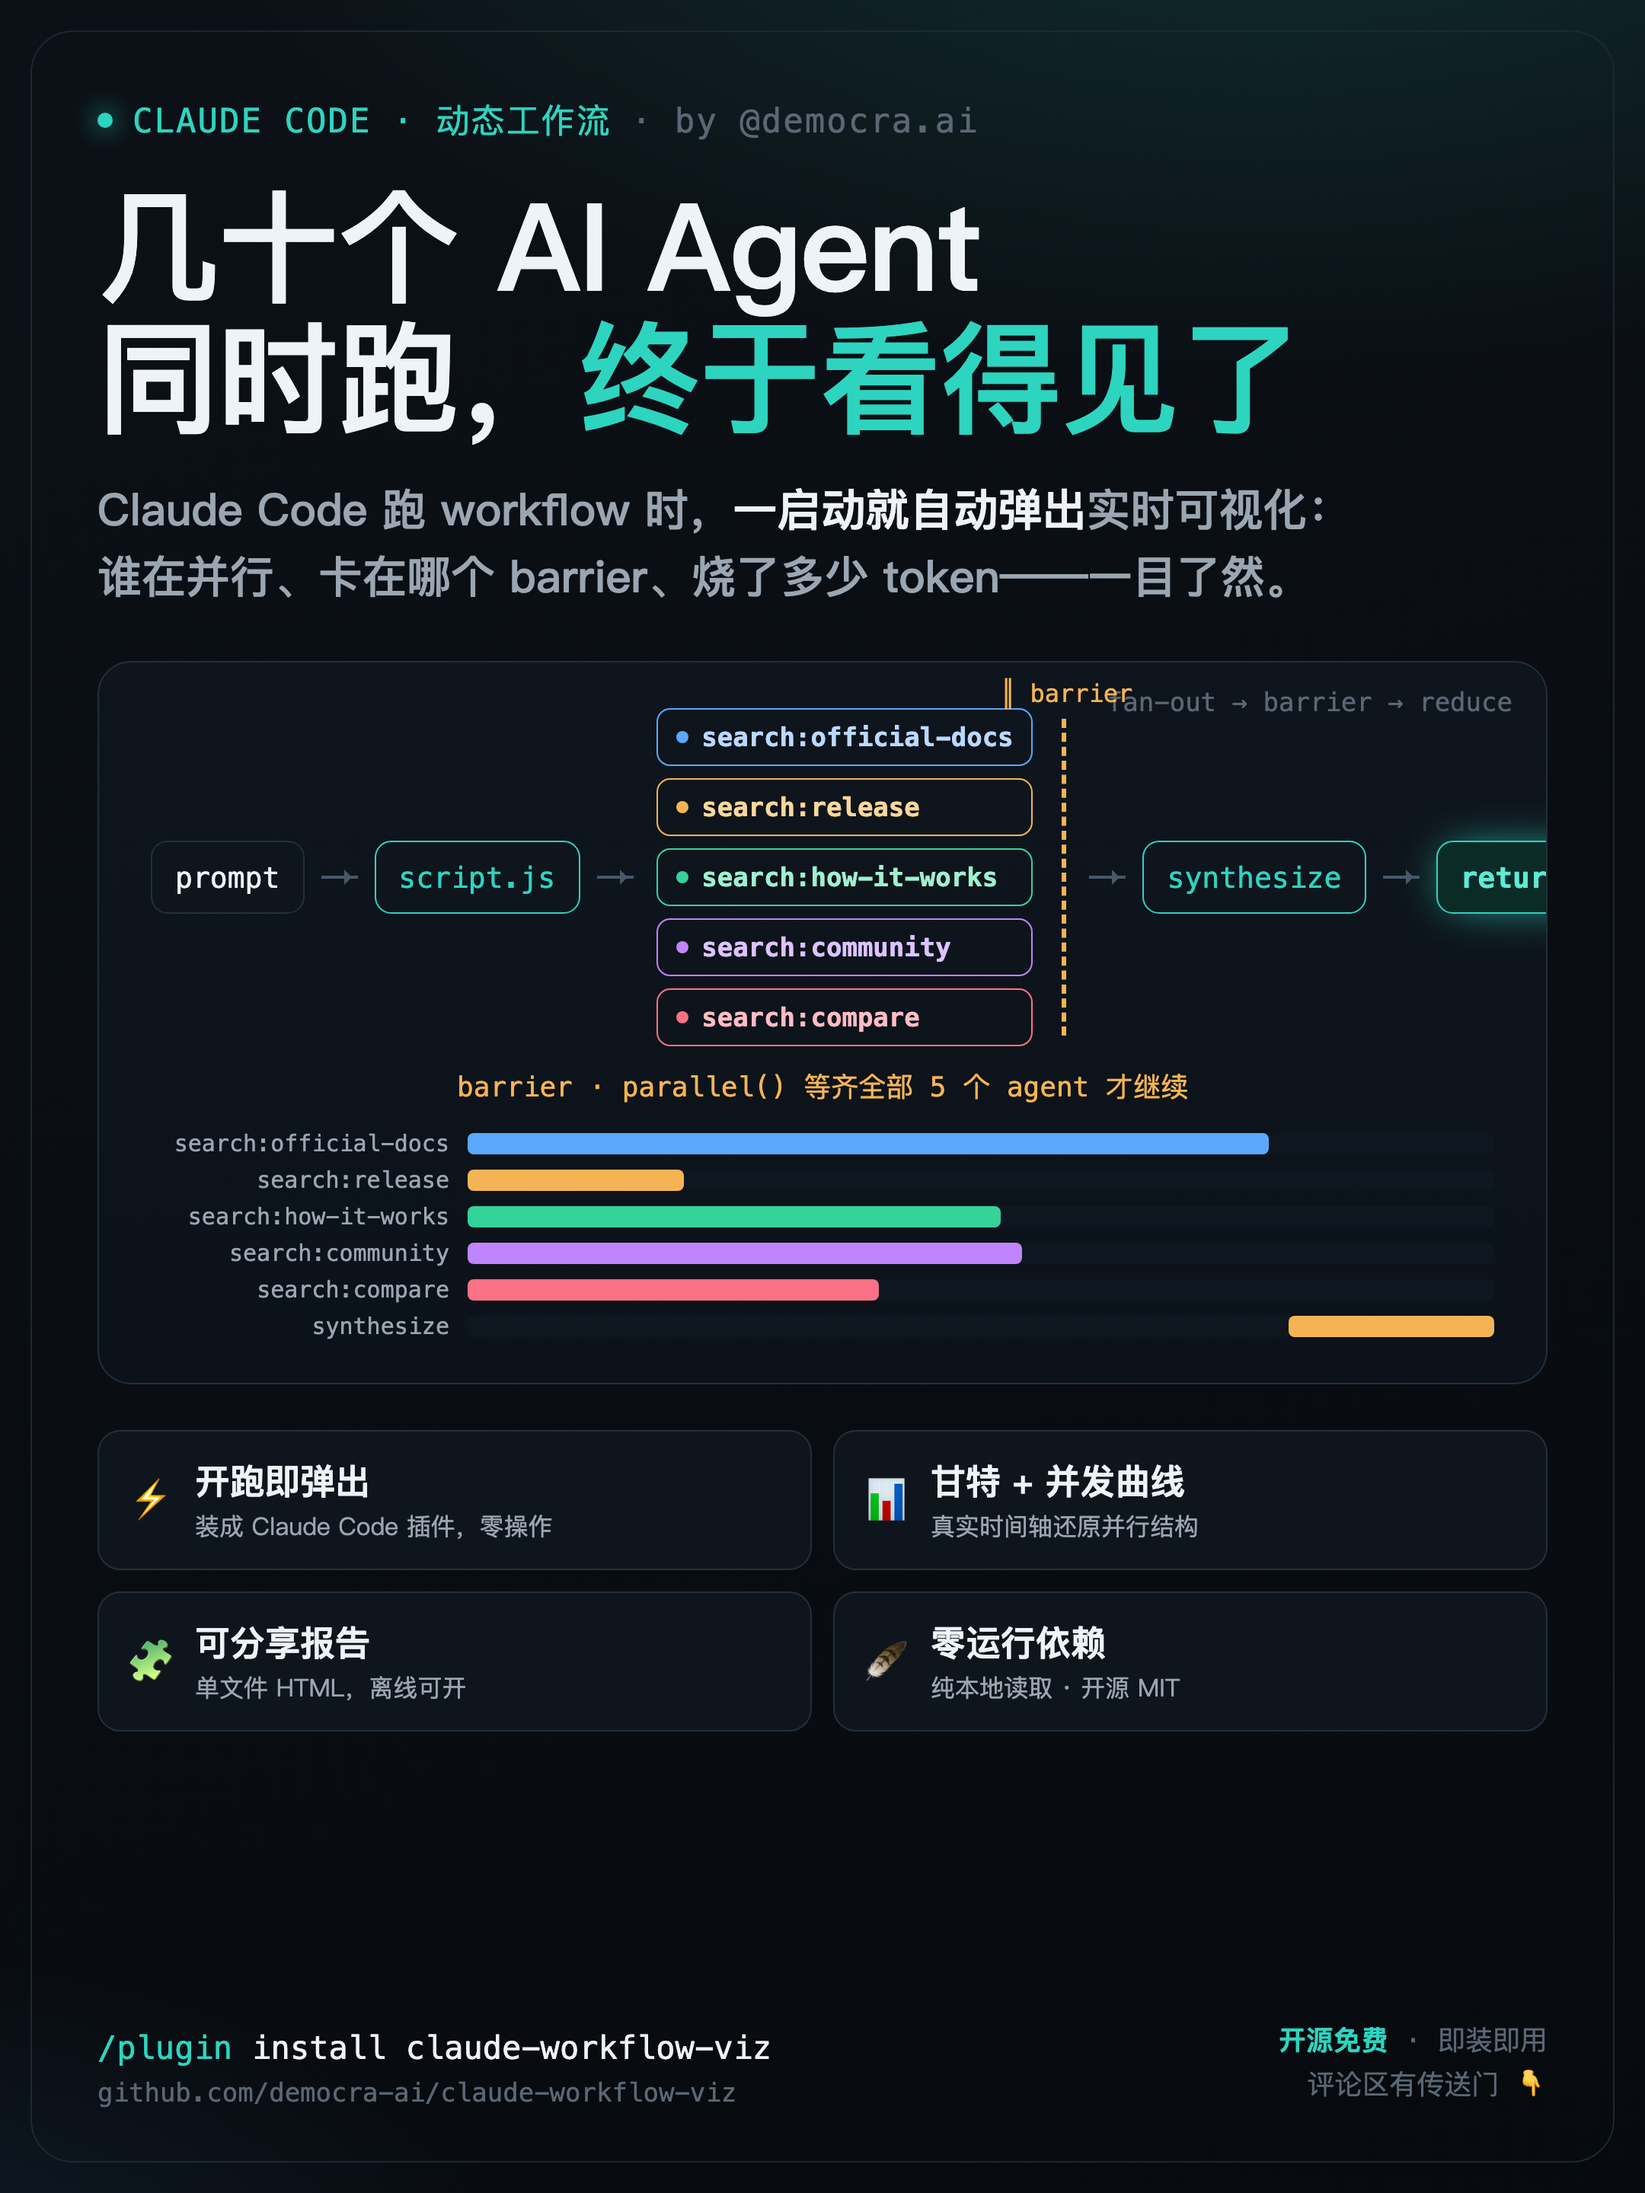
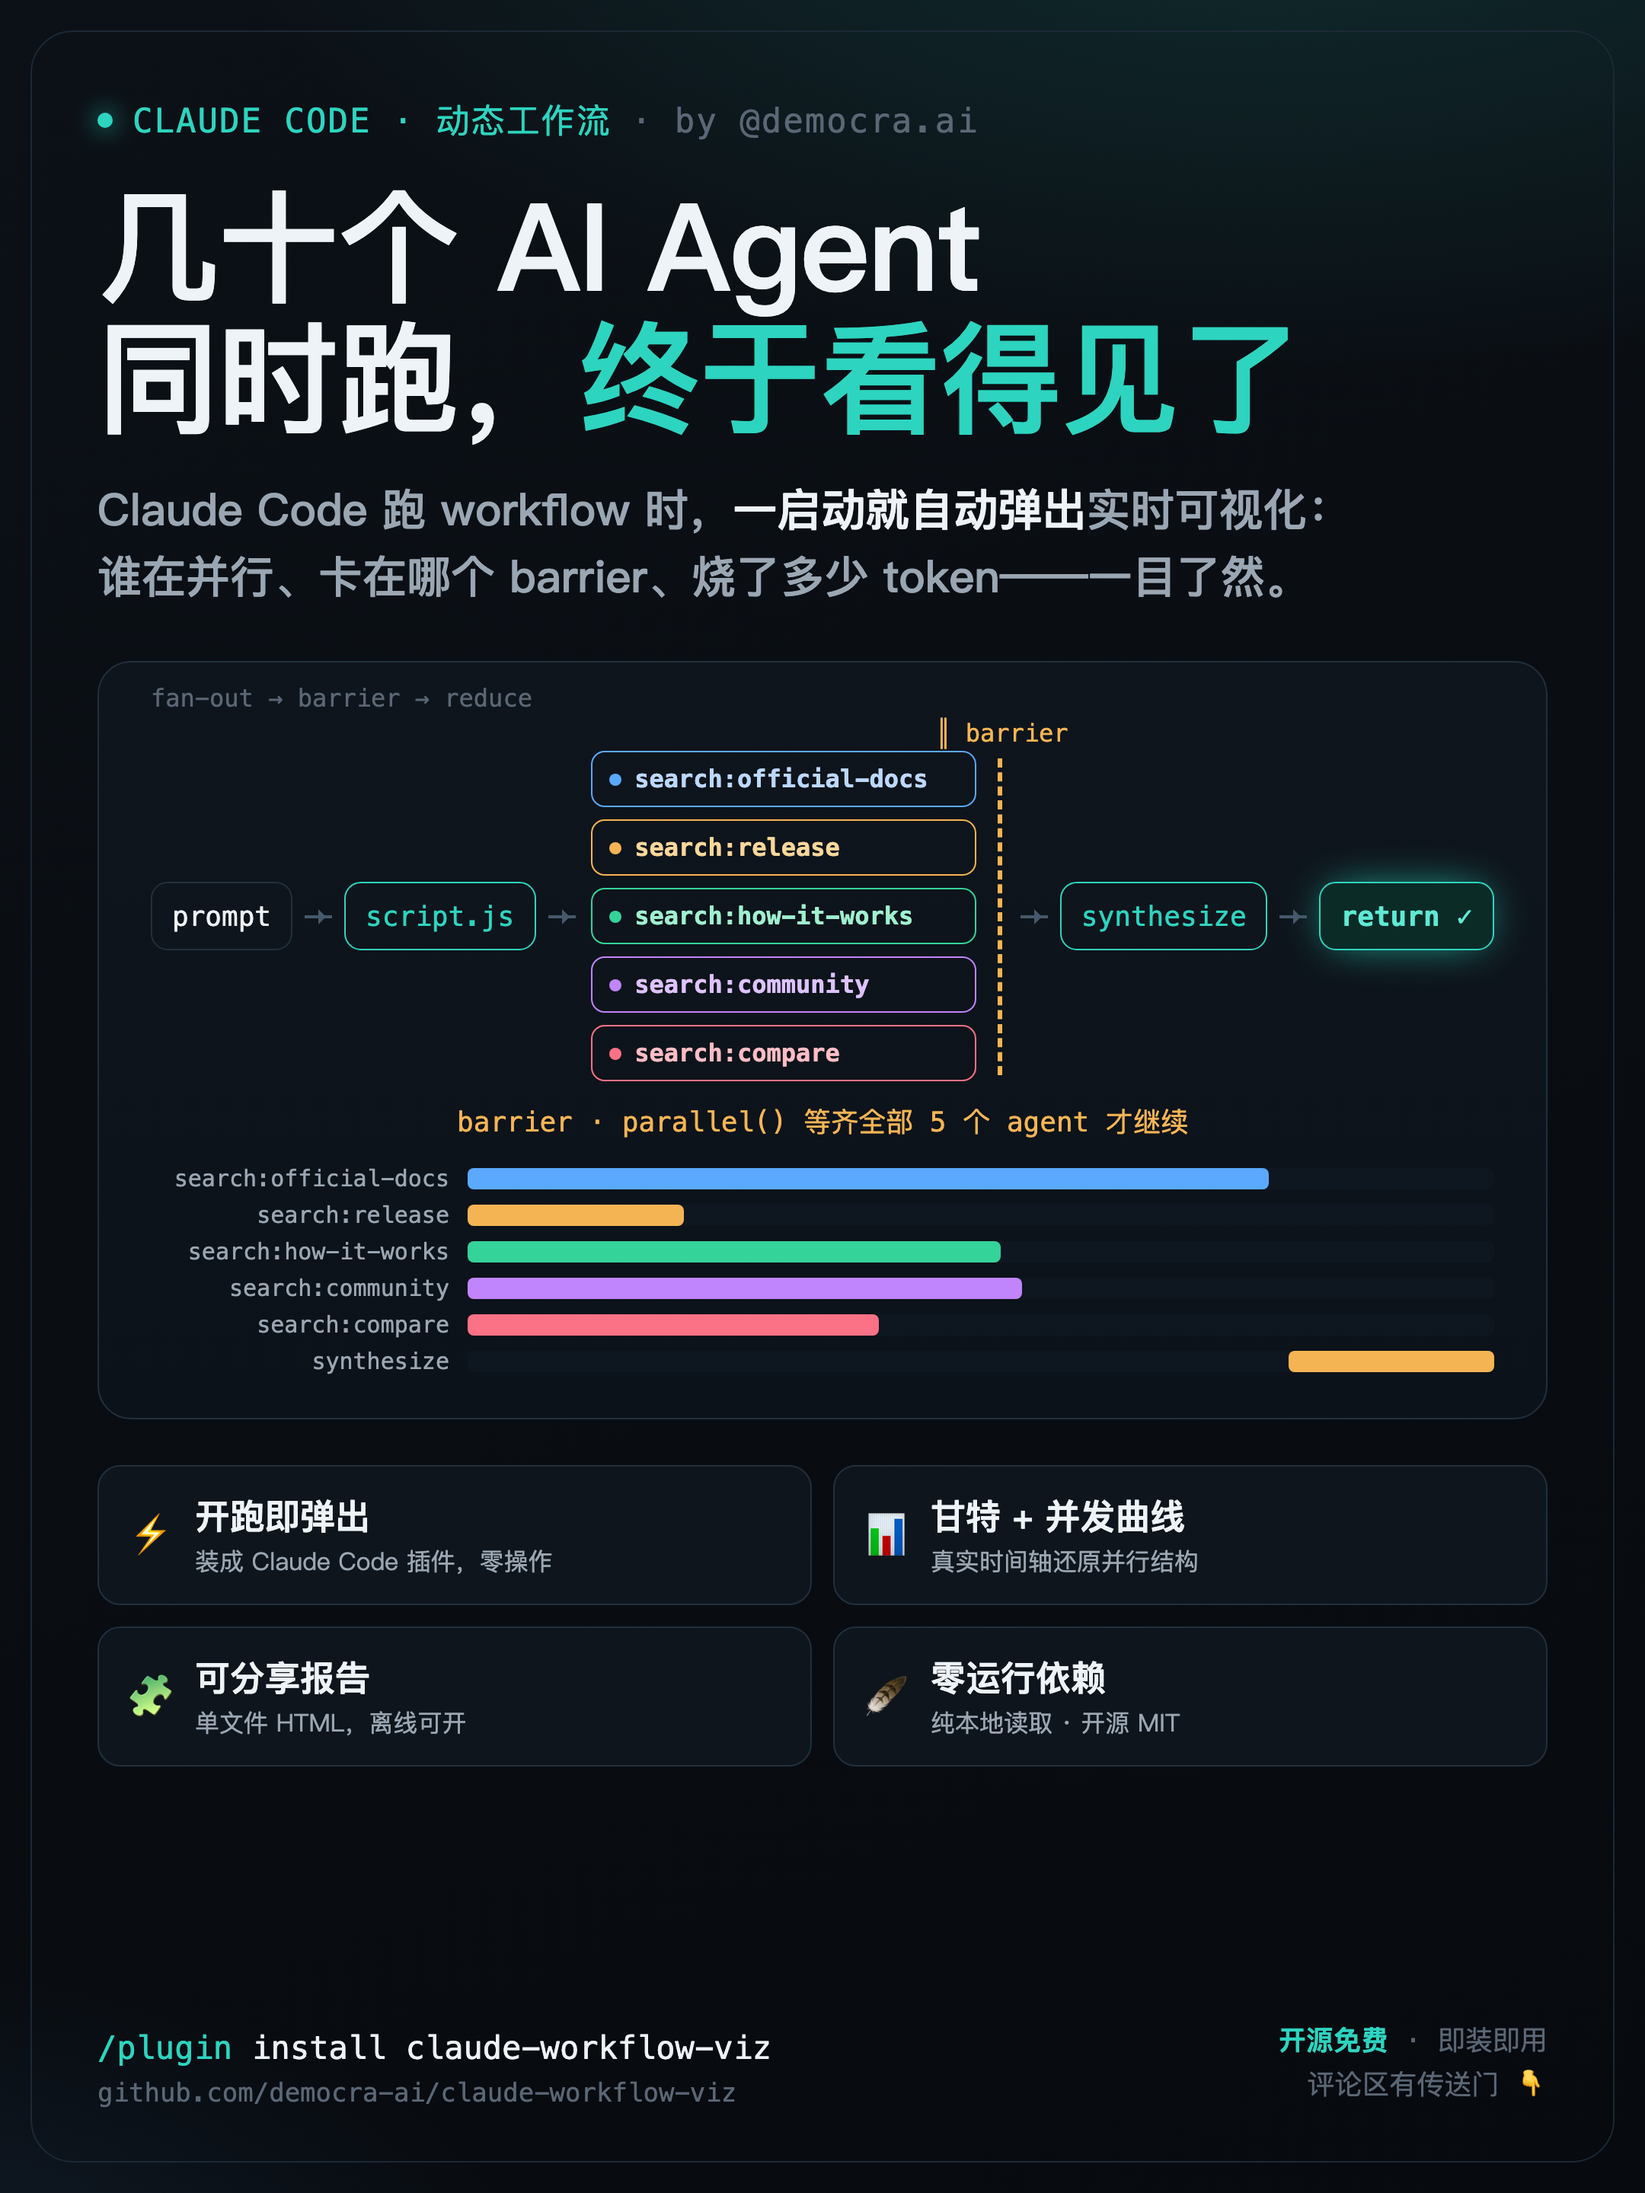
fix(poster): keep the full pipeline inside the frame (no right-edge clip)
return chip and the fan-out → barrier → reduce tag were clipping past the safe
area; tightened spacing and moved the tag so the whole diagram fits at 1080x1440.

diff --git a/assets/poster.html b/assets/poster.html
@@ -30,16 +30,16 @@
 
   /* visual: pipeline */
   .stage{margin-top:34px;background:linear-gradient(180deg,#0f151c,#0c1219);
-    border:1px solid var(--line);border-radius:22px;padding:30px 34px 28px;position:relative;overflow:hidden}
-  .stage .tag{position:absolute;top:16px;right:22px;font-family:var(--mono);font-size:17px;color:var(--dim)}
-  .row{display:flex;align-items:center;gap:11px}
-  .chip{font-family:var(--mono);font-size:19px;border:1px solid var(--line);border-radius:11px;padding:12px 15px;background:#0f151c;white-space:nowrap}
+    border:1px solid var(--line);border-radius:22px;padding:44px 34px 28px;position:relative;overflow:hidden}
+  .stage .tag{position:absolute;top:14px;left:34px;font-family:var(--mono);font-size:16px;color:var(--dim)}
+  .row{display:flex;align-items:center;gap:8px;margin-top:14px}
+  .chip{font-family:var(--mono);font-size:18px;border:1px solid var(--line);border-radius:11px;padding:11px 13px;background:#0f151c;white-space:nowrap}
   .chip.teal{border-color:var(--teal);color:var(--teal)}
   .chip.res{border-color:var(--teal);color:#5eead4;background:#0b2b27;box-shadow:0 0 30px -8px var(--teal);font-weight:700}
-  .arrow{flex:0 0 auto;width:24px;height:2px;background:#46586b;position:relative}
+  .arrow{flex:0 0 auto;width:18px;height:2px;background:#46586b;position:relative}
   .arrow:after{content:"";position:absolute;right:-1px;top:-4px;border:5px solid transparent;border-left-color:#46586b}
-  .fan{flex:1;display:flex;flex-direction:column;gap:8px;margin:0 4px}
-  .agent{font-family:var(--mono);font-size:17px;border-radius:9px;padding:8px 12px;border:1px solid;display:flex;align-items:center;gap:9px;white-space:nowrap}
+  .fan{flex:1;display:flex;flex-direction:column;gap:8px;margin:0 2px}
+  .agent{font-family:var(--mono);font-size:16px;border-radius:9px;padding:8px 11px;border:1px solid;display:flex;align-items:center;gap:9px;white-space:nowrap}
   .agent .d{width:8px;height:8px;border-radius:50%;flex:0 0 auto}
   .a1{border-color:var(--p1)} .a1 .d{background:var(--p1)} .a1 b{color:#bcd8ff}
   .a2{border-color:var(--p2)} .a2 .d{background:var(--p2)} .a2 b{color:#f8d79a}
